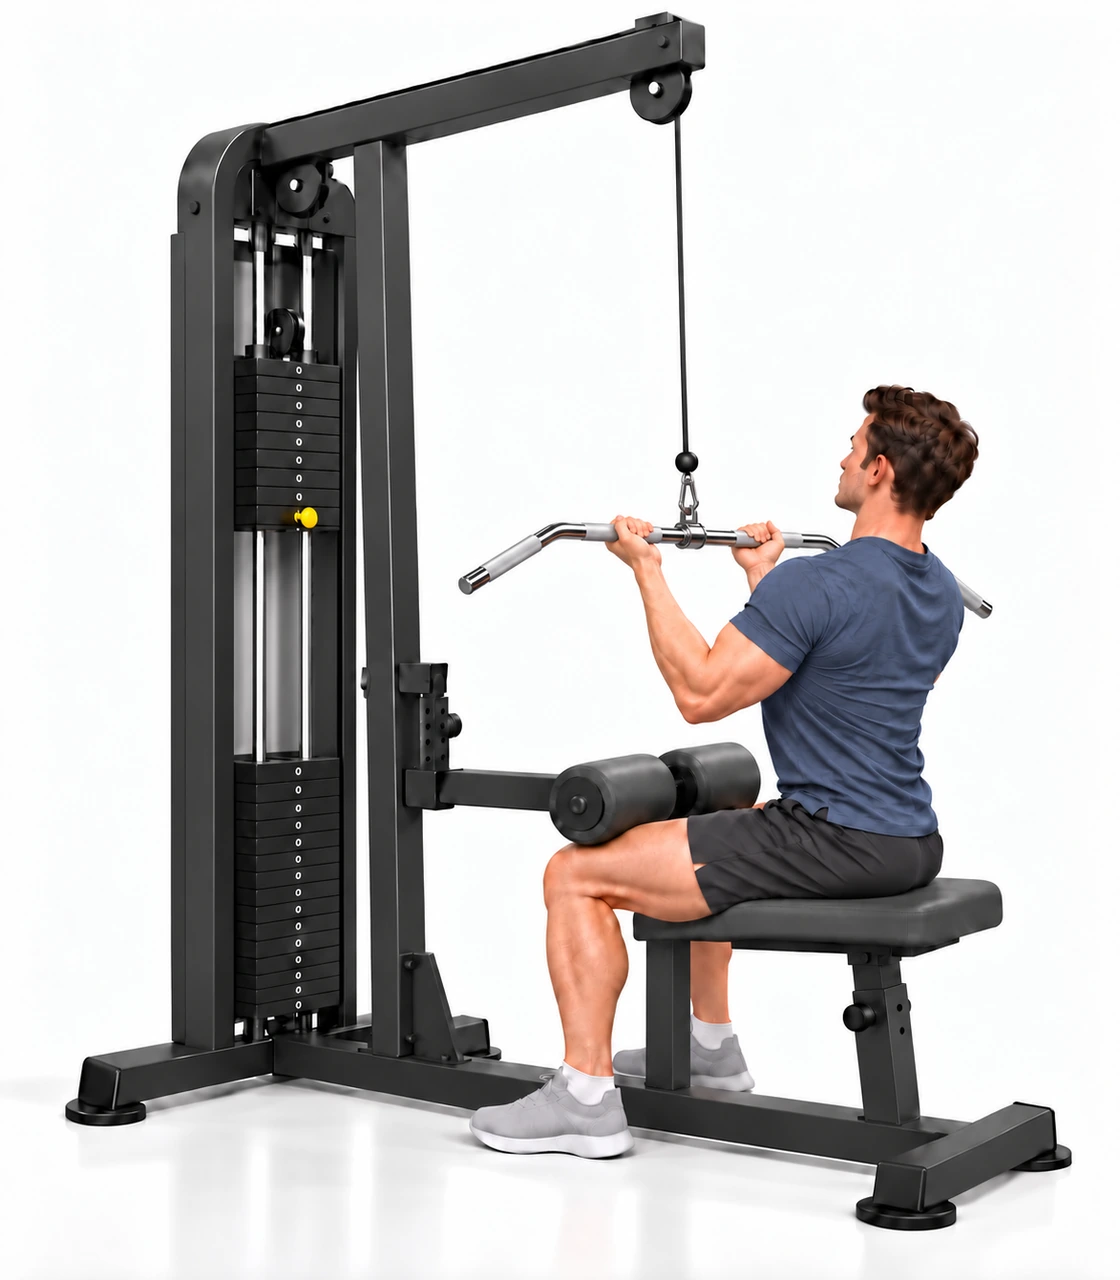
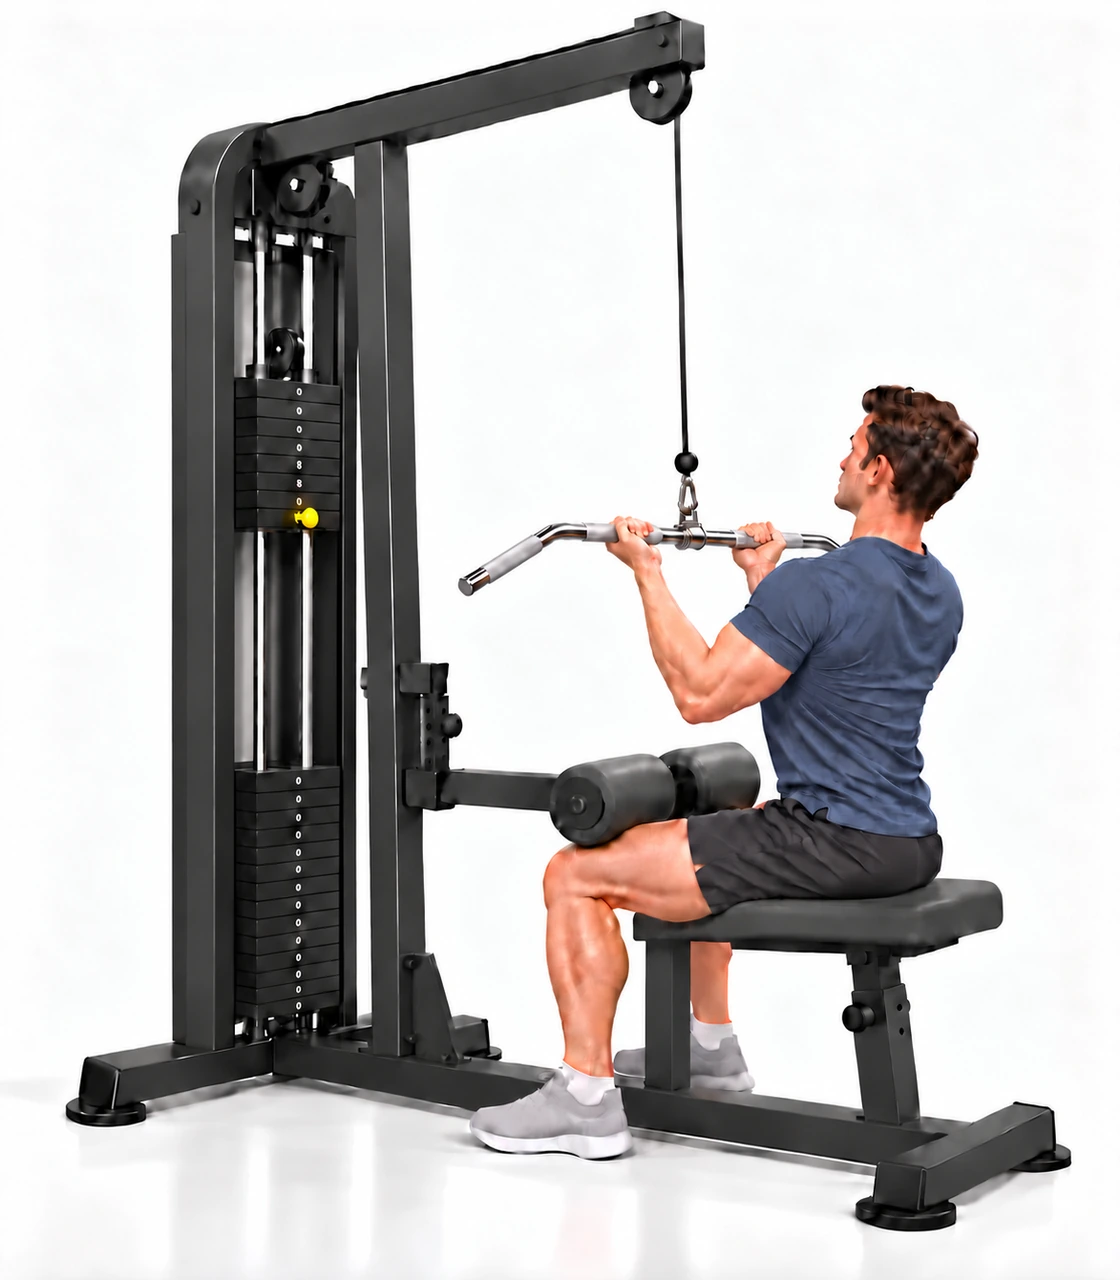
fix: hide stray bar end behind reverse-grip shoulder

diff --git a/docs/EXERCISE_ASSETS.md b/docs/EXERCISE_ASSETS.md
@@ -1,5 +1,17 @@
 # CRESUM Exercise Assets — approved production rules
 
+## Reverse-grip FINISH — shoulder occlusion repair, 2026-10-27
+
+The user identified an exposed chrome bar end behind the right shoulder in
+their supplied FINISH frame. Replace the runtime FINISH with the generated
+local occlusion correction: the far end is hidden by the torso in this view.
+Manifest revision 2 records the uploaded reference hash, exact repair prompt,
+new source/output hashes and previous runtime FINISH export. The historical
+selection record points to `selected-finish-before-occlusion-repair.webp`.
+This supersedes the original-FINISH runtime statement below; known stack/pair
+QA and Oracle upload remain open. Do not claim pixel-identical preservation
+of all details or independent biomechanical certification.
+
 ## Reverse-grip Male pair — provisional local integration, 2026-10-27
 
 The user accepted START and FINISH, with the previously disclosed stack issue
